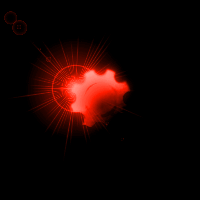
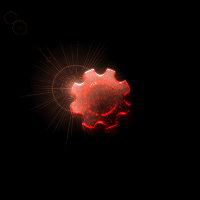
Added highlight for current attack in resolveAttacks. Fixed formatting of percent

Changed region(s): [[0.12, 0.24, 0.66, 0.69], [0.06, 0.09, 0.12, 0.18], [0.18, 0.24, 0.21, 0.27]]

diff --git a/game3/SimpleClient.py b/game3/SimpleClient.py
@@ -72,6 +72,7 @@ MOVE_DOWNLEFT_UPRIGHT = pygame.image.load(IMAGE_FILE_PATH + 'MoveGears_UR_BL.png
 
 MOUSE_OVER = pygame.image.load(IMAGE_FILE_PATH + 'MouseOver.png')
 MOUSE_OVER_UNKNOWN = pygame.image.load(IMAGE_FILE_PATH + 'MouseOverUnknown.png')
+HIGHLIGHT_ATTACK = pygame.image.load(IMAGE_FILE_PATH + 'CurrentAttack.png')
 INFO_MARQUEE = pygame.image.load(IMAGE_FILE_PATH + "InfoMarque.png")
 INFO_OVERLAY = pygame.image.load(IMAGE_FILE_PATH + "InfoMarqueOverlay.png")
 MAP_FRAME = pygame.image.load(IMAGE_FILE_PATH + "MapFrame.png")
@@ -209,8 +210,8 @@ def standardInfo(map, DISPLAYSURF, params):
       DISPLAYSURF.blit(COUNTRY_FONT.render("Airships: " + (str(map.d_continents[current_tile[0]][current_tile[1]].unit_counts.champions) if country_known else "?"), True, (0,0,0)), (map.WIDTH * TILESIZE + 100, 300))
       
       # Country bonuses
-      DISPLAYSURF.blit(COUNTRY_FONT.render("Attack Bonus: " + (str(map.d_continents[current_tile[0]][current_tile[1]].attack_bonus) if country_known else "?"), True, ATTACK_COLOR), (map.WIDTH * TILESIZE + 100, 350))
-      DISPLAYSURF.blit(COUNTRY_FONT.render("Defense Bonus: " + (str(map.d_continents[current_tile[0]][current_tile[1]].defense_bonus) if country_known else "?"), True, DEFEND_COLOR), (map.WIDTH * TILESIZE + 100, 375))
+      DISPLAYSURF.blit(COUNTRY_FONT.render("Attack Bonus: " + (str(map.d_continents[current_tile[0]][current_tile[1]].attack_bonus) + "%" if country_known else "?"), True, ATTACK_COLOR), (map.WIDTH * TILESIZE + 100, 350))
+      DISPLAYSURF.blit(COUNTRY_FONT.render("Defense Bonus: " + (str(map.d_continents[current_tile[0]][current_tile[1]].defense_bonus) + "%" if country_known else "?"), True, DEFEND_COLOR), (map.WIDTH * TILESIZE + 100, 375))
       
       # Owner
       DISPLAYSURF.blit(COUNTRY_FONT.render("Owner: " + (str(map.d_continents[current_tile[0]][current_tile[1]].owner) if country_known else "?"), True, (0,0,0)), (map.WIDTH * TILESIZE + 100, 425))
@@ -781,6 +782,9 @@ def resolveAttacks(DISPLAYSURF, map, player, socket, host_address):
             DISPLAYSURF.blit(RETREAT, (RETREAT_COORDS[0], RETREAT_COORDS[1]))
     
           blitInfo(DISPLAYSURF, map, INFO_RESOLVE, False)
+          
+          if len(l_attackers) > attack:
+            DISPLAYSURF.blit(HIGHLIGHT_ATTACK, (l_attackers[attack][0] * TILESIZE - 50, l_attackers[attack][1] * TILESIZE - 50), special_flags=BLEND_ADD)
           
           #update the display
           pygame.display.update()
